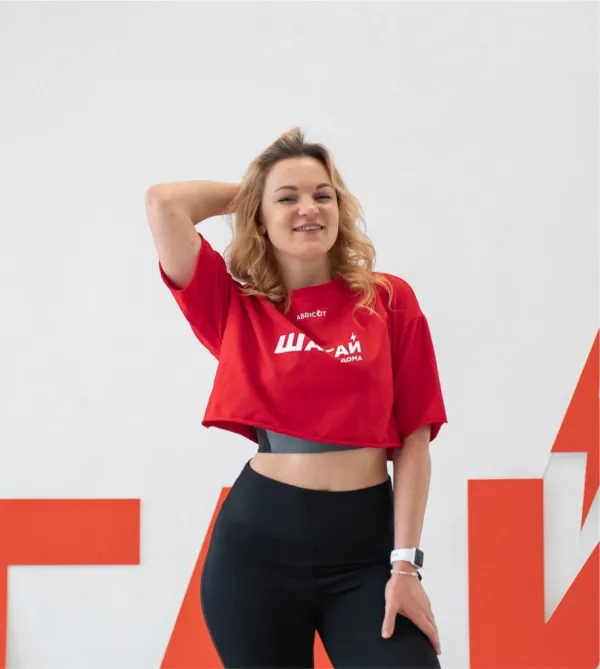
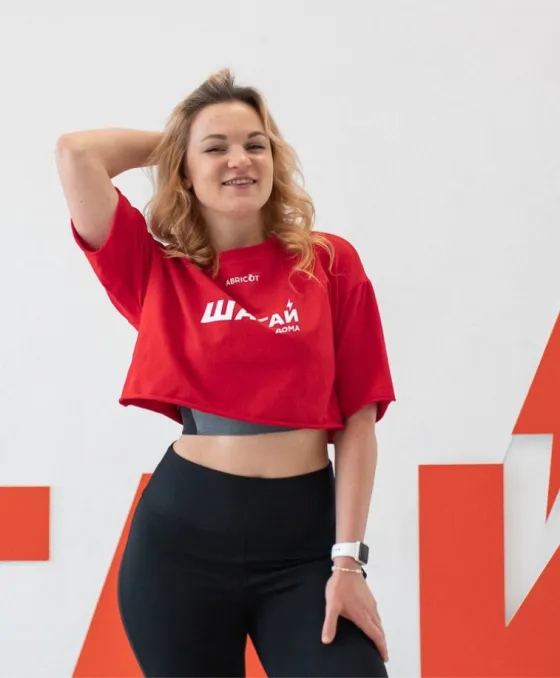
design: переработан первый экран и блок «через 7 дней»
Первый экран был плоским: огромная красная плита, мелкое фото в белой
рамке с серыми полями по краям и три бледные плашки. Плюс заголовок
разрывал число — «2–» на одной строке, «4 кг воды» на другой.

- число держим неразрывно, заголовок стал плотнее
- фото перекадрировано по фигуре (серых полей больше нет) и тянется на всю
  высоту карточки
- добавлены цифры-факты 15 / 14 / 5 и два стикера поверх фото
- плашки-обещания: белые карточки с обводкой и тенью вместо серой заливки

Блок «через 7 дней» был списком серых плашек с галочками — читался как
перечисление ни о чём. Стал сеткой карточек с крупной цифрой слева
(−4, −2, 24/7, 0, +1): обещание превращается в измеримый результат.

diff --git a/index.html b/index.html
@@ -26,7 +26,7 @@
         imagesrcset="assets/hero/hero-antiotek-760.webp 600w, assets/hero/hero-antiotek.webp 900w"
         imagesizes="(max-width: 900px) 92vw, 40vw" />
 
-  <link rel="stylesheet" href="styles.css?v=anti-B" />
+  <link rel="stylesheet" href="styles.css?v=anti-E" />
 </head>
 <body>
 
@@ -114,41 +114,51 @@
     <div class="hero__grid">
       <div class="hero__card">
         <span class="hero__badge">Интенсив «Антиотёчность»</span>
-        <h1 class="hero__title">Минус <span class="hero__accent">2–4&nbsp;кг воды</span> и&nbsp;объёмов за&nbsp;7&nbsp;дней</h1>
-        <p class="hero__lead">Система, которая избавляет от&nbsp;отёков и&nbsp;уменьшает объёмы всего за&nbsp;неделю. Без сложных диет и&nbsp;упражнений, после которых болит всё тело: только простые шагательные тренировки и&nbsp;меню, которые запускают лимфоток и&nbsp;возвращают энергию.</p>
-        <p class="hero__note">Всего 15&nbsp;минут в&nbsp;день онлайн</p>
+        <!-- «2–4 кг воды» держим неразрывно: при переносе число разрывалось
+             на «2–» и «4 кг воды», и заголовок читался как ошибка вёрстки. -->
+        <h1 class="hero__title">Минус <span class="hero__accent">2–4&nbsp;кг воды</span><br />и&nbsp;объёмов за&nbsp;7&nbsp;дней</h1>
+        <p class="hero__lead">Система, которая избавляет от&nbsp;отёков и&nbsp;уменьшает объёмы всего за&nbsp;неделю&nbsp;— без сложных диет и&nbsp;упражнений, после которых болит всё тело.</p>
+
+        <ul class="hero__facts">
+          <li><b>15</b><span>минут в&nbsp;день</span></li>
+          <li><b>14</b><span>тренировок</span></li>
+          <li><b>5</b><span>специалистов</span></li>
+        </ul>
+
         <a href="#rates" class="btn btn--yellow btn--lg hero__cta" data-metrika-goal="anti-hero-cta">Присоединиться к&nbsp;интенсиву</a>
+        <p class="hero__under">Старт 17&nbsp;августа · осталось мало мест</p>
       </div>
 
       <div class="hero__media">
         <img class="hero__photo"
              src="assets/hero/hero-antiotek.webp"
-             srcset="assets/hero/hero-antiotek-760.webp 600w, assets/hero/hero-antiotek.webp 900w"
-             sizes="(max-width: 900px) 92vw, 40vw"
+             srcset="assets/hero/hero-antiotek-760.webp 560w, assets/hero/hero-antiotek.webp 820w"
+             sizes="(max-width: 900px) 92vw, 42vw"
              alt="Тренер клуба «Шагай Дома»"
-             width="900" height="1003" fetchpriority="high" />
+             width="820" height="993" fetchpriority="high" />
+        <span class="hero__sticker hero__sticker--top">Лимфоток<br />запускается<br />с первого дня</span>
+        <span class="hero__sticker hero__sticker--bottom"><b>2100+</b> уже прошли</span>
       </div>
     </div>
 
-    <!-- Три обещания: то, что человек замечает первым -->
     <ul class="hero__promises">
       <li class="hero__promise">
         <span class="hero__promise-icon" aria-hidden="true">
-          <svg viewBox="0 0 24 24" width="22" height="22" fill="none" stroke="currentColor" stroke-width="1.8" stroke-linecap="round" stroke-linejoin="round"><path d="M13 2 4.5 13.5H11l-1 8.5 8.5-11.5H12l1-8.5Z"/></svg>
+          <svg viewBox="0 0 24 24" width="22" height="22" fill="none" stroke="currentColor" stroke-width="1.9" stroke-linecap="round" stroke-linejoin="round"><path d="M13 2 4.5 13.5H11l-1 8.5 8.5-11.5H12l1-8.5Z"/></svg>
         </span>
-        <span>Появилась энергия и&nbsp;бодрость, будто сбросили тяжёлый рюкзак</span>
+        <span>Энергия и&nbsp;бодрость, будто сбросили тяжёлый рюкзак</span>
       </li>
       <li class="hero__promise">
         <span class="hero__promise-icon" aria-hidden="true">
-          <svg viewBox="0 0 24 24" width="22" height="22" fill="none" stroke="currentColor" stroke-width="1.8" stroke-linecap="round" stroke-linejoin="round"><circle cx="12" cy="12" r="9"/><path d="M8.5 14.5c1 1.2 2.1 1.8 3.5 1.8s2.5-.6 3.5-1.8M9 9.5h.01M15 9.5h.01"/></svg>
+          <svg viewBox="0 0 24 24" width="22" height="22" fill="none" stroke="currentColor" stroke-width="1.9" stroke-linecap="round" stroke-linejoin="round"><circle cx="12" cy="12" r="9"/><path d="M8.5 14.5c1 1.2 2.1 1.8 3.5 1.8s2.5-.6 3.5-1.8M9 9.5h.01M15 9.5h.01"/></svg>
         </span>
-        <span>Лицо стало чётче, подтянулся овал, уменьшился второй подбородок</span>
+        <span>Лицо чётче, подтянулся овал, меньше второй подбородок</span>
       </li>
       <li class="hero__promise">
         <span class="hero__promise-icon" aria-hidden="true">
-          <svg viewBox="0 0 24 24" width="22" height="22" fill="none" stroke="currentColor" stroke-width="1.8" stroke-linecap="round" stroke-linejoin="round"><path d="M12 21s-7-4.4-7-9.5A4.5 4.5 0 0 1 12 8a4.5 4.5 0 0 1 7 3.5c0 5.1-7 9.5-7 9.5Z"/></svg>
+          <svg viewBox="0 0 24 24" width="22" height="22" fill="none" stroke="currentColor" stroke-width="1.9" stroke-linecap="round" stroke-linejoin="round"><path d="M12 21s-7-4.4-7-9.5A4.5 4.5 0 0 1 12 8a4.5 4.5 0 0 1 7 3.5c0 5.1-7 9.5-7 9.5Z"/></svg>
         </span>
-        <span>Кольца снова налезают, обувь не&nbsp;сдавливает, брюки свободно застёгиваются</span>
+        <span>Кольца налезают, обувь не&nbsp;жмёт, брюки застёгиваются</span>
       </li>
     </ul>
   </div>
@@ -162,11 +172,11 @@
     <h2 class="section__title">Уже через 7&nbsp;дней вы заметите, что:</h2>
 
     <ul class="seven__list">
-      <li class="seven__item"><b>2–4&nbsp;кг воды</b> уйдут из&nbsp;вашего тела</li>
-      <li class="seven__item">Заметно уменьшатся <b>объёмы живота, ног и&nbsp;лица</b></li>
-      <li class="seven__item">Отражение в&nbsp;зеркале будет радовать <b>в&nbsp;любое время суток</b></li>
-      <li class="seven__item">Одежда <b>перестанет врезаться</b> в&nbsp;тело</li>
-      <li class="seven__item">К&nbsp;вечеру появятся <b>силы и&nbsp;энергия</b> вместо желания лежать на&nbsp;диване</li>
+      <li class="seven__item"><span class="seven__num">−4</span><span class="seven__txt"><b>кг воды</b> уйдут из&nbsp;вашего тела</span></li>
+      <li class="seven__item"><span class="seven__num">−2</span><span class="seven__txt"><b>размера</b> в&nbsp;объёмах живота, ног и&nbsp;лица</span></li>
+      <li class="seven__item"><span class="seven__num">24/7</span><span class="seven__txt">Отражение в&nbsp;зеркале радует <b>в&nbsp;любое время суток</b></span></li>
+      <li class="seven__item"><span class="seven__num">0</span><span class="seven__txt">Следов от&nbsp;резинок&nbsp;— одежда <b>перестанет врезаться</b></span></li>
+      <li class="seven__item"><span class="seven__num">+1</span><span class="seven__txt">Свободный вечер: <b>силы и&nbsp;энергия</b> вместо дивана</span></li>
     </ul>
 
     <div class="seven__quote">
@@ -553,6 +563,6 @@
 
 <button class="back-to-top" id="backToTop" type="button" aria-label="Наверх">↑</button>
 
-<script src="script.js?v=anti-B"></script>
+<script src="script.js?v=anti-E"></script>
 </body>
 </html>

diff --git a/styles.css b/styles.css
@@ -1653,50 +1653,14 @@ section[id],
 }
 
 /* ---------- ЧЕРЕЗ 7 ДНЕЙ ---------- */
-.seven__list {
-  list-style: none;
-  margin: 32px 0 0;
-  padding: 0;
-  display: grid;
-  gap: 14px;
-  max-width: 900px;
-}
-.seven__item {
-  position: relative;
-  padding: 16px 20px 16px 56px;
-  background: var(--color-soft);
-  border-radius: var(--radius-card);
-  font-size: 17px;
-  line-height: 1.45;
-}
 /* Галочка нарисована на CSS: одним запросом меньше */
-.seven__item::before {
-  content: "";
-  position: absolute;
-  left: 20px; top: 50%;
-  width: 22px; height: 22px;
-  margin-top: -11px;
-  border-radius: 50%;
-  background: var(--color-primary);
-}
-.seven__item::after {
-  content: "";
-  position: absolute;
-  left: 27px; top: 50%;
-  width: 8px; height: 4px;
-  margin-top: -3px;
-  border-left: 2px solid #fff;
-  border-bottom: 2px solid #fff;
-  transform: rotate(-45deg);
-}
 .seven__quote {
   margin-top: 30px;
   padding: 26px 30px;
   background: var(--color-primary);
   color: #fff;
   border-radius: var(--radius-card);
-  max-width: 900px;
-}
+  }
 .seven__quote p { margin: 0 0 8px; font-size: 18px; line-height: 1.4; }
 .seven__quote strong { font-family: var(--font-h); font-size: 20px; }
 @media (max-width: 700px) {
@@ -1947,3 +1911,154 @@ section[id],
 
 /* В белой карточке жёлтый маркер почти не виден — там берём красный */
 .extra:not(.extra--accent) .extra__list li::before { background: var(--color-primary); }
+
+/* ============================================================
+   ПЕРВЫЙ ЭКРАН — переработка
+   Было: огромная красная плита, мелкое фото в белой рамке с серыми полями
+   и три бледные плашки. Стало плотнее и с акцентами: цифры-факты, стикеры
+   поверх фото, фото кадрировано по фигуре.
+   ============================================================ */
+.hero__grid {
+  grid-template-columns: 1.02fr minmax(0, .98fr);
+  gap: 32px;
+  align-items: stretch;
+}
+.hero__card {
+  display: flex;
+  flex-direction: column;
+  justify-content: center;
+}
+.hero__title { font-size: clamp(30px, 4.1vw, 54px); line-height: 1.08; }
+/* Число не должно ломаться между строк */
+.hero__accent { color: var(--color-primary-hover); white-space: nowrap; }
+.hero__lead { max-width: 46ch; }
+
+/* Три цифры вместо строчки «15 минут в день» — читаются за секунду */
+.hero__facts {
+  list-style: none;
+  display: flex;
+  gap: 26px;
+  margin: 26px 0 0;
+  padding: 0;
+}
+.hero__facts li { display: flex; flex-direction: column; }
+.hero__facts b {
+  font-family: var(--font-h);
+  font-size: 34px;
+  line-height: 1;
+  color: var(--color-primary-hover);
+}
+.hero__facts span { font-size: 13px; line-height: 1.25; margin-top: 6px; opacity: .92; }
+.hero__under { margin: 14px 0 0; font-size: 14px; opacity: .88; }
+
+/* Фото: тянется на всю высоту карточки, кадр по фигуре — серых полей нет */
+.hero__media { position: relative; display: block; }
+.hero__photo {
+  width: 100%;
+  height: 100%;
+  max-height: none;
+  object-fit: cover;
+  object-position: center top;
+  border-radius: var(--radius-card);
+  box-shadow: var(--shadow-md);
+}
+/* Стикеры поверх фото — то, что оживляет статичный кадр */
+.hero__sticker {
+  position: absolute;
+  z-index: 2;
+  border-radius: var(--radius-card);
+  padding: 12px 16px;
+  font-size: 13px;
+  line-height: 1.25;
+  box-shadow: var(--shadow-md);
+}
+.hero__sticker--top {
+  top: 22px; left: -16px;
+  background: #fff;
+  color: var(--color-text);
+  font-weight: 600;
+}
+.hero__sticker--bottom {
+  bottom: 22px; right: -14px;
+  background: var(--color-primary-hover);
+  color: #1f1300;
+  font-weight: 600;
+}
+.hero__sticker--bottom b { font-family: var(--font-h); font-size: 19px; display: block; }
+
+/* Плашки-обещания: белые карточки с обводкой вместо серой заливки */
+.hero__promises { margin-top: 34px; gap: 18px; }
+.hero__promise {
+  background: #fff;
+  border: 1px solid var(--color-line);
+  box-shadow: var(--shadow-sm);
+  padding: 20px 22px;
+  font-size: 15.5px;
+  align-items: center;
+  transition: transform .2s, box-shadow .2s;
+}
+@media (hover: hover) {
+  .hero__promise:hover { transform: translateY(-3px); box-shadow: var(--shadow-md); }
+}
+
+@media (max-width: 900px) {
+  .hero__grid { gap: 22px; }
+  .hero__facts { gap: 18px; }
+  .hero__facts b { font-size: 28px; }
+  .hero__photo { max-height: 420px; }
+  /* На узком стикеры уезжали за край экрана — прижимаем внутрь кадра */
+  .hero__sticker--top { left: 10px; top: 12px; }
+  .hero__sticker--bottom { right: 10px; bottom: 12px; }
+}
+@media (max-width: 560px) {
+  .hero__facts { gap: 14px; }
+  .hero__facts b { font-size: 24px; }
+  .hero__facts span { font-size: 12px; }
+  .hero__sticker { font-size: 12px; padding: 9px 12px; }
+}
+
+/* ---------- ЧЕРЕЗ 7 ДНЕЙ: карточки с цифрой ----------
+   Был плоский список серых плашек с галочками — читался как перечисление
+   ни о чём. Цифра слева даёт зацепку для глаза и превращает обещание
+   в измеримый результат. */
+.seven__list {
+  list-style: none;
+  margin: 34px 0 0;
+  padding: 0;
+  display: grid;
+  grid-template-columns: repeat(2, minmax(0, 1fr));
+  gap: 16px;
+}
+/* Первая карточка шире остальных: это главное обещание интенсива */
+.seven__item:first-child { grid-column: 1 / -1; }
+.seven__item {
+  display: flex;
+  align-items: center;
+  gap: 20px;
+  background: #fff;
+  border: 1px solid var(--color-line);
+  border-radius: var(--radius-card);
+  box-shadow: var(--shadow-sm);
+  padding: 22px 26px;
+  transition: transform .2s, box-shadow .2s, border-color .2s;
+}
+.seven__num {
+  flex: none;
+  min-width: 92px;
+  font-family: var(--font-h);
+  font-size: clamp(30px, 3.4vw, 44px);
+  line-height: 1;
+  color: var(--color-primary);
+  letter-spacing: -.02em;
+}
+.seven__item:first-child .seven__num { color: var(--color-primary); font-size: clamp(38px, 4.6vw, 60px); }
+.seven__txt { font-size: 17px; line-height: 1.4; }
+@media (hover: hover) {
+  .seven__item:hover { transform: translateY(-3px); box-shadow: var(--shadow-md); border-color: var(--color-primary); }
+}
+@media (max-width: 820px) {
+  .seven__list { grid-template-columns: minmax(0, 1fr); gap: 12px; }
+  .seven__item { padding: 18px 20px; gap: 16px; }
+  .seven__num { min-width: 68px; }
+  .seven__txt { font-size: 16px; }
+}
